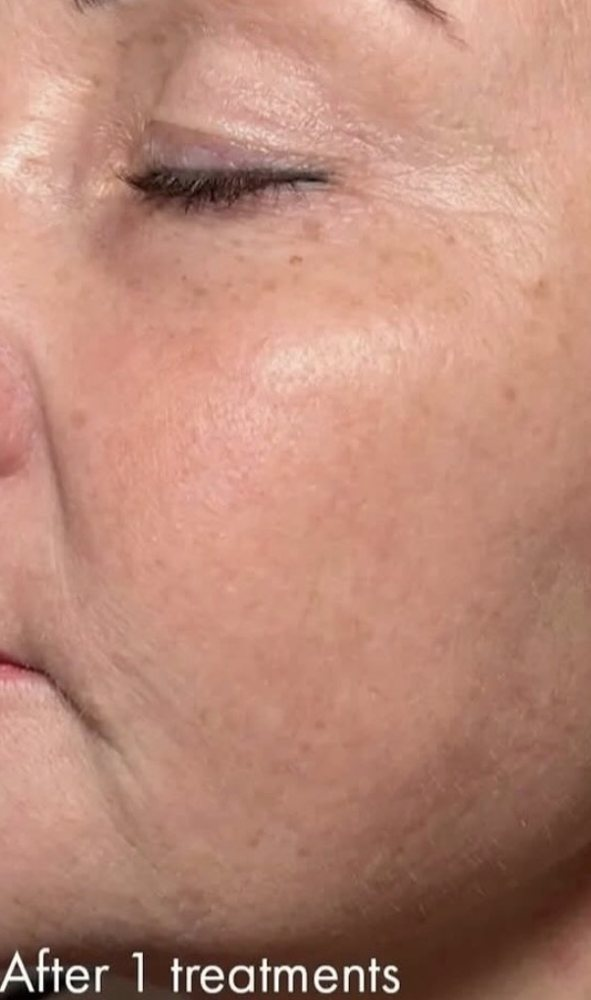
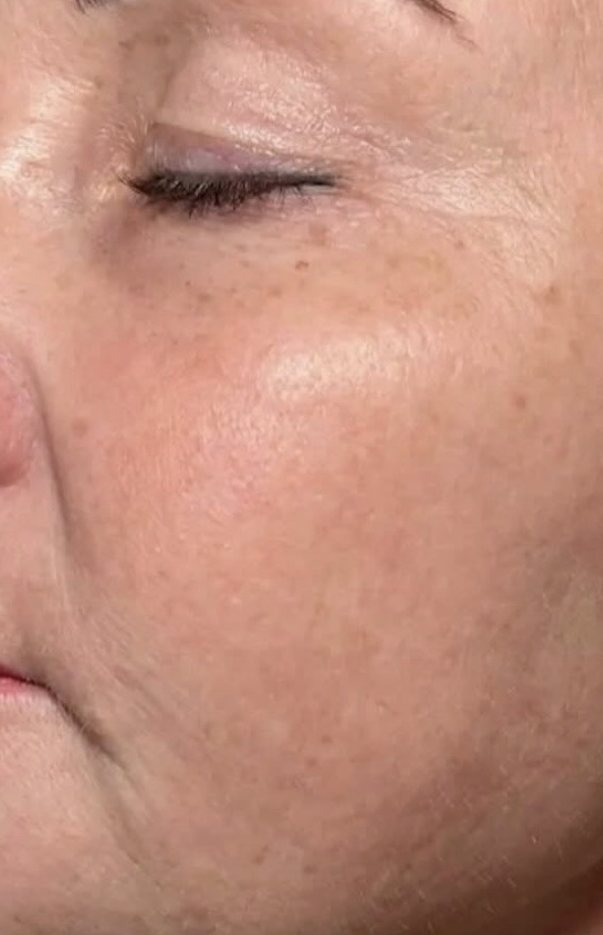
Trim cut-off caption from the redness result photo
Claude-Session: https://claude.ai/code/session_011K7YiLje6ZucpFH3EqpyJ4

diff --git a/treatments/lumenis-stellar-m22-ipl.html b/treatments/lumenis-stellar-m22-ipl.html
@@ -63,7 +63,7 @@
   <aside class="aside">
     <div class="box" data-reveal><h3>Book lumenis stellar m22 ipl</h3><p>Every course starts with a consultation. Book online or call (046) 906 0333.</p><a class="btn btn-lime" href="../book/index.html">Book now <svg viewBox="0 0 16 16" fill="none" stroke="currentColor" stroke-width="1.5"><path d="M2 8h11M9 4l4 4-4 4"/></svg></a></div>
     <div class="facts" data-reveal><div><span>Sessions</span><span>1 to 3</span></div><div><span>Time</span><span>20 to 40 min</span></div><div><span>Downtime</span><span>Minimal</span></div><div><span>Patch test</span><span>Required</span></div></div>
-    <div class="ba" data-reveal style="aspect-ratio:591/1000">
+    <div class="ba" data-reveal style="aspect-ratio:603/935">
   <img class="after" src="../assets/img/rosacea-after.jpg" alt="After: Redness · after 1 treatment" loading="lazy">
   <img class="before" src="../assets/img/rosacea-before.jpg" alt="Before: Redness · after 1 treatment" loading="lazy">
   <div class="scan"></div>

diff --git a/results/index.html b/results/index.html
@@ -70,7 +70,7 @@
   <span class="cap">Under-eye darkness</span>
   <button class="full" type="button" data-image="../assets/img/undereye-full.jpg" data-title="Under-eye darkness" aria-label="View the full photo"><svg viewBox="0 0 24 24"><path d="M4 9V4h5M20 9V4h-5M4 15v5h5M20 15v5h-5"/></svg></button>
   <input type="range" min="0" max="100" value="50" id="ba-undereye-1" aria-label="Compare before and after: Under-eye darkness">
-</div><div class="ba" data-reveal style="aspect-ratio:591/1000">
+</div><div class="ba" data-reveal style="aspect-ratio:603/935">
   <img class="after" src="../assets/img/rosacea-after.jpg" alt="After: Redness · after 1 treatment" loading="lazy">
   <img class="before" src="../assets/img/rosacea-before.jpg" alt="Before: Redness · after 1 treatment" loading="lazy">
   <div class="scan"></div>

diff --git a/index.html b/index.html
@@ -122,7 +122,7 @@
   <span class="cap">Under-eye darkness</span>
   <button class="full" type="button" data-image="assets/img/undereye-full.jpg" data-title="Under-eye darkness" aria-label="View the full photo"><svg viewBox="0 0 24 24"><path d="M4 9V4h5M20 9V4h-5M4 15v5h5M20 15v5h-5"/></svg></button>
   <input type="range" min="0" max="100" value="50" id="ba-undereye-1" aria-label="Compare before and after: Under-eye darkness">
-</div><div class="ba" data-reveal style="aspect-ratio:591/1000">
+</div><div class="ba" data-reveal style="aspect-ratio:603/935">
   <img class="after" src="assets/img/rosacea-after.jpg" alt="After: Redness · after 1 treatment" loading="lazy">
   <img class="before" src="assets/img/rosacea-before.jpg" alt="Before: Redness · after 1 treatment" loading="lazy">
   <div class="scan"></div>

diff --git a/build.py b/build.py
@@ -198,7 +198,7 @@ RESULTS = [
     ("texture", "Texture & pigmentation", "Peels and microneedling for texture"),
     ("lips", "Lip hydration", "Hydrated, defined lips"),
 ]
-RATIO = {"jaw": "603/1395", "rosacea": "591/1000", "undereye": "1000/629", "eyes": "1000/631", "texture": "1000/633", "lips": "1000/627"}
+RATIO = {"jaw": "603/1395", "rosacea": "603/935", "undereye": "1000/629", "eyes": "1000/631", "texture": "1000/633", "lips": "1000/627"}
 REELS = [
     ("microneedling.mp4", "microneedling-poster.jpg", "Why microneedling works", "It is all about collagen. Tiny channels tell the skin to rebuild itself."),
     ("lumadoc.mp4", "lumadoc-poster.jpg", "Polynucleotides for tired eyes", "Dark circles and crepey skin under the eye, treated with LumaDoc."),
